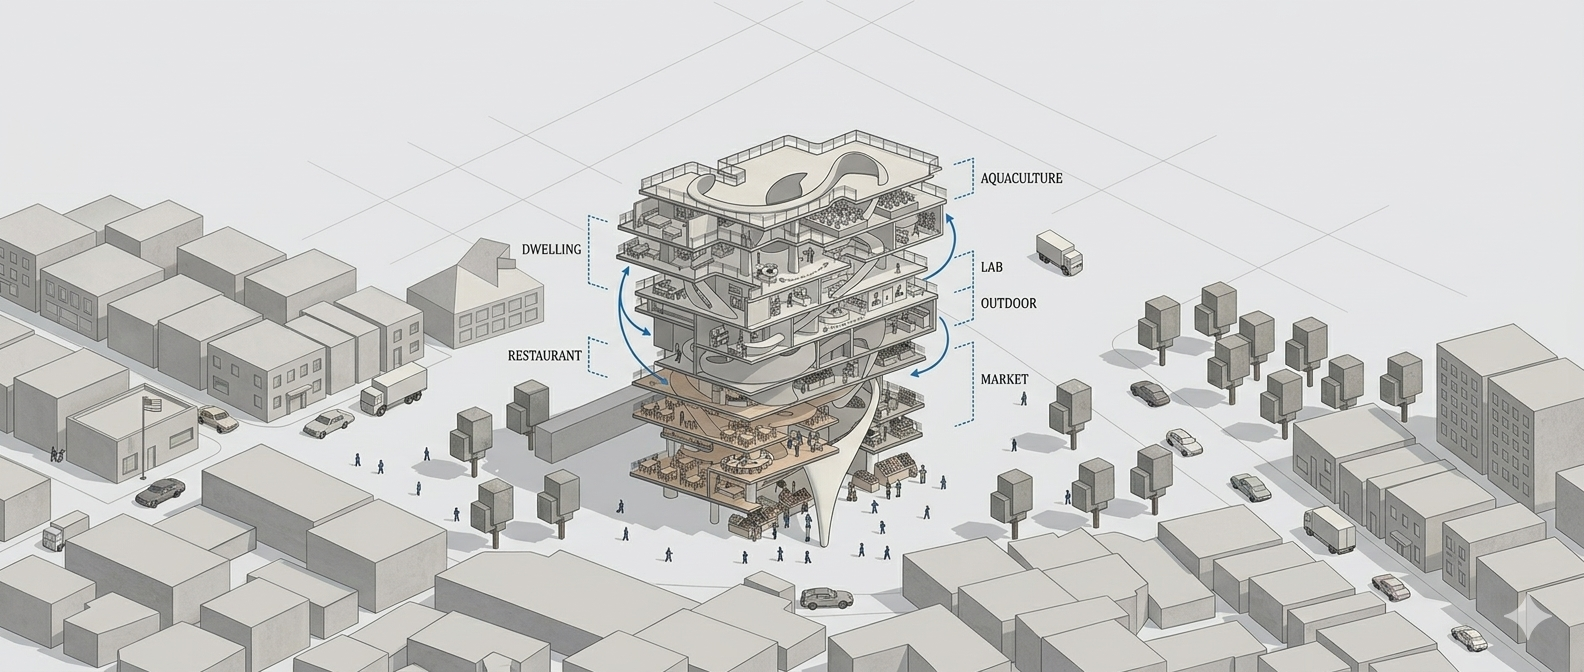
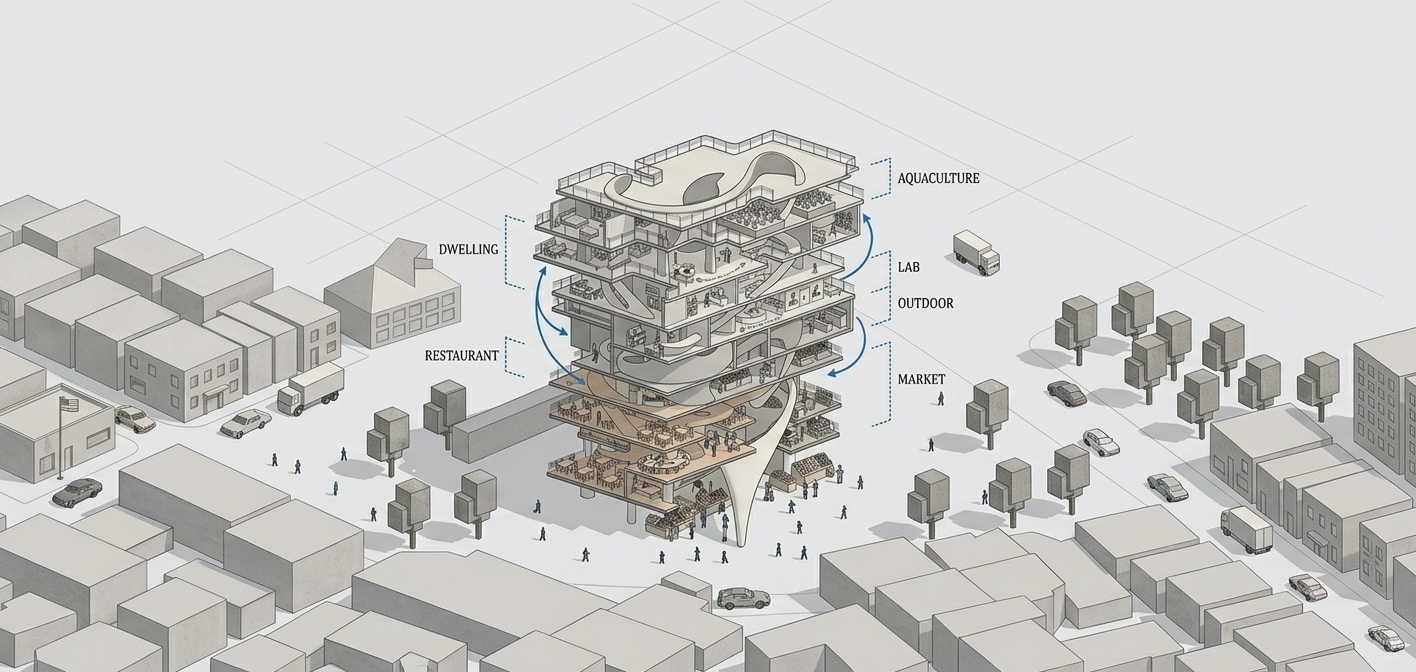
minor refinement

diff --git a/_projects/D_chair.md b/_projects/D_chair.md
@@ -1,0 +1,80 @@
+---
+layout: page
+title: Acrylic Chair Study — Layered Transparency
+description: A laser-cut acrylic chair study exploring how contour layering, transparency, and color can define volume through minimal geometry.
+img: assets/img/projects/D_chair/image-pair.png
+importance: 2
+category: design
+tags: [Design, Furniture, Acrylic, Laser Cutting]
+proj_role: "Individual Project"
+proj_dates: "Spring 2021"
+giscus_comments: true
+---
+{% include project_header.liquid %}
+
+
+**Outcome.** A chair study developed through laser-cut acrylic layers, where contour profiles, transparency, and fluorescent color produce a compact object with visual depth and structural clarity.
+
+**Role**: Individual Project · **Dates**: Spring 2021 · **Context**: Furniture Design & Fabrication Studio · **Tools**: Rhino, Laser Cutting, Acrylic Fabrication, Physical Prototyping
+
+---
+
+### Brief
+
+This project explored the chair not only as a functional type, but as a formal and material study. The aim was to investigate how a recognizable furniture silhouette could be reinterpreted through contour layering and transparent material.
+
+Rather than building mass, the project builds volume through accumulation — using a sequence of cut profiles to define the chair spatially.
+
+
+<div class="row mt-3 align-items-start">
+  <div class="col-sm-6">
+    {% include figure.liquid path="assets/img/projects/D_chair/image-pair.png" title="Acrylic Chair Pair" class="img-fluid rounded z-depth-1" caption="Two chair studies exploring contour layering, transparency, and fluorescent color variation" %}
+  </div>
+  <div class="col-sm-6">
+    {% include figure.liquid path="assets/img/projects/D_chair/image-single.png" title="Acrylic Chair Side View" class="img-fluid rounded z-depth-1" caption="Side view showing how stacked acrylic profiles build volume from a minimal outline" %}
+  </div>
+</div>
+
+---
+
+### Concept
+
+The chair is composed of repeated acrylic sections that trace and slightly shift along a continuous profile. This produces a form that feels both solid and lightweight: legible as a chair, yet visually softened by transparency and edge effects.
+
+Fluorescent acrylic was used to intensify this reading. Depending on angle and light, the object appears alternately crisp, luminous, and partially dissolved — turning a simple small-scale study into an exploration of perception as well as form.
+
+---
+
+### Fabrication Logic
+
+The project relies on the precision of laser cutting to maintain consistency across multiple contour layers. Each piece acts as both structure and visual boundary, while the spacing and stacking of the parts generate thickness, depth, and curvature.
+
+A central strength of the project is the translation from two-dimensional cut geometry to three-dimensional spatial presence. The final object is not carved from a solid volume; instead, it is assembled from discrete profiles whose alignment creates the chair's overall body.
+
+---
+
+### Material Study
+
+Acrylic introduced a different design logic from cardboard or opaque sheet materials. Transparency exposed the internal layering rather than concealing it, making fabrication part of the visual language of the object.
+
+Color also played an active role. The fluorescent inserts emphasize gradients of density and edge glow, allowing the chair to operate simultaneously as a furniture prototype and as a light-sensitive material experiment.
+
+---
+
+### Outcome
+
+The final study demonstrates how furniture can be represented through minimal geometry, repeated sections, and controlled material effects. It highlights a design approach grounded in precision, iteration, and fabrication-aware form making.
+
+
+---
+
+### Process
+
+<div class="row mt-3 align-items-start">
+  <div class="col-sm-6">
+    {% include figure.liquid path="assets/img/projects/D_chair/process-1.jpg" title="Process Documentation 1" class="img-fluid rounded z-depth-1" caption="Documenting the prototype and evaluating light, edge condition, and material presence" %}
+  </div>
+  <div class="col-sm-6">
+    {% include figure.liquid path="assets/img/projects/D_chair/process-2.jpg" title="Process Documentation 2" class="img-fluid rounded z-depth-1" caption="Prototype review during the final presentation and documentation stage" %}
+  </div>
+</div>

diff --git a/_projects/D_shrimp.md b/_projects/D_shrimp.md
@@ -1,0 +1,68 @@
+---
+layout: page
+title: Shrimp Study — Laser-Cut Cardboard Mobile
+description: A suspended cardboard study translating the anatomy and movement of a shrimp into a lightweight laser-cut mobile.
+# img: assets/img/projects/D_shrimp/2-red-3.jpg
+img: assets/img/projects/D_shrimp/2-red-5_EDIT.png
+importance: 1
+category: design
+tags: [Design, Laser Cutting, Cardboard, Fabrication]
+proj_role: "Individual Project"
+proj_dates: "Spring 2021"
+giscus_comments: true
+---
+{% include project_header.liquid %}
+
+
+**Outcome.** A suspended mobile that abstracts the shrimp's elongated body, segmented shell, and antennae into a lightweight laser-cut cardboard assembly — balancing structural clarity with a sense of motion.
+
+**Role**: Individual Project · **Dates**: Spring 2021 · **Context**: Furniture Design & Fabrication Studio · **Tools**: Laser Cutting, Cardboard Prototyping, Physical Assembly
+
+---
+
+### Brief
+
+This project began with the study of a shrimp as a biological reference. Rather than reproducing the animal literally, the goal was to extract its defining features — curvature, segmentation, lightness, and directional movement — and translate them into a fabricated object.
+
+The result was developed as a hanging mobile, allowing the form to be read in motion rather than as a static model.
+
+---
+
+### Concept
+
+The design focuses on the shrimp's most recognizable spatial qualities: the long sweeping antennae, the layered body shell, and the tapered tail.
+
+Instead of treating the shrimp as a figurative object, the project simplifies its anatomy into a set of laser-cut profiles and layered components. The suspended format emphasizes balance, asymmetry, and lightness, allowing the piece to capture the floating quality of aquatic movement.
+
+---
+
+### Fabrication Logic
+
+Cardboard was used as both a modeling and fabrication material. Its thinness and flexibility made it possible to create lightweight curved elements, while laser cutting introduced precision in the repeated body segments and slot-based assembly.
+
+A key part of the project was translating an organic creature into flat cut pieces that could be assembled into a coherent three-dimensional form. The design therefore balances two systems at once: a biomorphic silhouette and a fabrication logic based on profiles, joints, and layered construction.
+
+---
+
+### Outcome
+
+The final piece demonstrates how observation can be transformed into abstraction through making. By combining biological reference, digital cutting, and physical assembly, the project explores how motion, structure, and material economy can be expressed through a minimal set of parts.
+
+---
+
+### Drawings / Photos
+
+<div class="row mt-3 align-items-start">
+  <div class="col-sm-6">
+    {% include figure.liquid path="assets/img/projects/D_shrimp/1-blue-2.jpg" title="Shrimp Mobile Blue" class="img-fluid rounded z-depth-1" caption="Laser-cut cardboard mobile emphasizing curvature, suspension, and segmented assembly" %}
+  </div>
+  <div class="col-sm-6">
+    {% include figure.liquid path="assets/img/projects/D_shrimp/2-red-3.jpg" title="Shrimp Mobile Red" class="img-fluid rounded z-depth-1" caption="Iterative variation studying silhouette, balance, and body simplification" %}
+  </div>
+</div>
+
+<div class="row mt-3 align-items-start">
+  <div class="col-sm-8 mx-auto">
+    {% include figure.liquid path="assets/img/projects/D_shrimp/1-silver-4.jpg" title="Shrimp Mobile Black" class="img-fluid rounded z-depth-1" caption="Side view highlighting profile-based construction and the relationship between flat parts and spatial depth" %}
+  </div>
+</div>

diff --git a/_projects/D_hub.md b/_projects/D_hub.md
@@ -2,7 +2,8 @@
 layout: page
 title: Infectious Disease Response Hub
 description: Adaptive control hub at Gangnam-gu Public Health Center — unifying medical staff, administrators, and the public under a polycarbonate grid structure designed for epidemic response.
-img: assets/img/projects/D_hub/cover.jpg
+# img: assets/img/projects/D_hub/cover.jpg
+img: assets/img/projects/D_hub/Gen-1-cut.png
 importance: 4
 category: design
 tags: [Architecture, Rhino, Space Planning, Urban Design]
@@ -18,6 +19,11 @@ giscus_comments: true
 **Role**: Team of 3 · **Dates**: Fall 2022 · **Context**: Interior Architecture Studio · **Tools**: Rhino, AutoCAD
 
 ---
+
+
+{% include figure.liquid path="assets/img/projects/D_hub/Gen-1.png" title="Facade — street level view" class="img-fluid rounded z-depth-1" %}
+
+
 
 ### Problem
 
@@ -74,9 +80,7 @@ The three user groups each enter from different points and follow distinct circu
 
 ---
 
-### Plans & Facade
+### Plans 
 
 
 {% include figure.liquid path="assets/img/projects/D_hub/page-08.jpg" title="Floor plans — 1F triage / 2F shared office / 3F specialized office" class="img-fluid rounded z-depth-1" %}
-
-{% include figure.liquid path="assets/img/projects/D_hub/page-09-cropped.jpg" title="Facade — street level view" class="img-fluid rounded z-depth-1" %}

diff --git a/_projects/T_furniture.md b/_projects/T_furniture.md
@@ -1,9 +1,9 @@
 ---
 layout: page
-title: Fine-Grained Furniture Classification
+title: Fine-Grained Classification
 description: From self-rendered 3D dataset and CNN baseline to CLIP-based few-shot fine-grained recognition with context conditioning.
-img: assets/img/projects/T_furniture/cover.jpg
-importance: 6
+img: assets/img/projects/T_furniture/cover-edit-cut_EDIT.jpg
+importance: 7
 category: tech
 tags: [TensorFlow, PyTorch, CLIP, Few-Shot Learning, 3D Rendering, HuggingFace, Python]
 proj_role: "Individual → Undergraduate researcher"

diff --git a/_projects/T_lens.md b/_projects/T_lens.md
@@ -3,7 +3,7 @@ layout: page
 title: Lens — Sensor-Aware Image Acquisition under Shift
 description: Stabilized recognition accuracy under natural distribution shift via adaptive sensor control — validated across multiple backbones.
 # img: assets/img/projects/T_lens/cover.jpg
-importance: 7
+importance: 6
 category: tech
 tags: [Computer Vision, Domain Shift, PyTorch, OpenCV]
 proj_role: "Research member"
